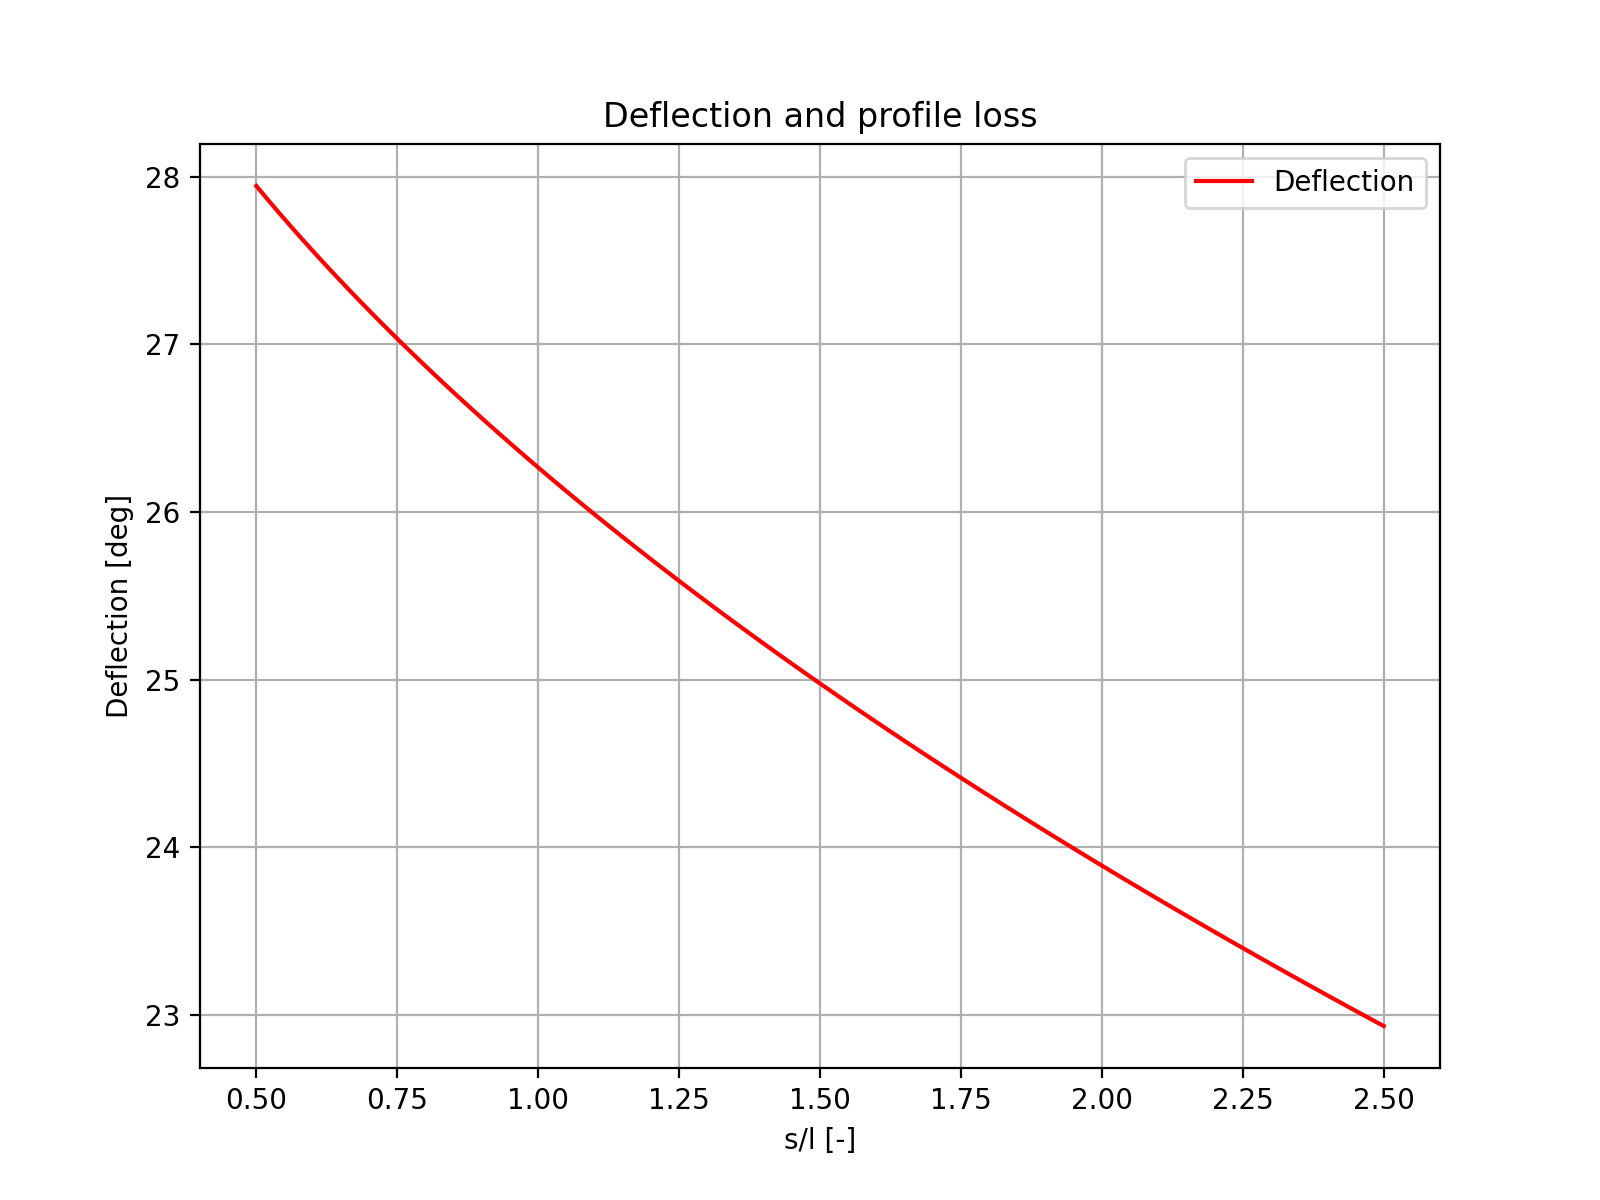
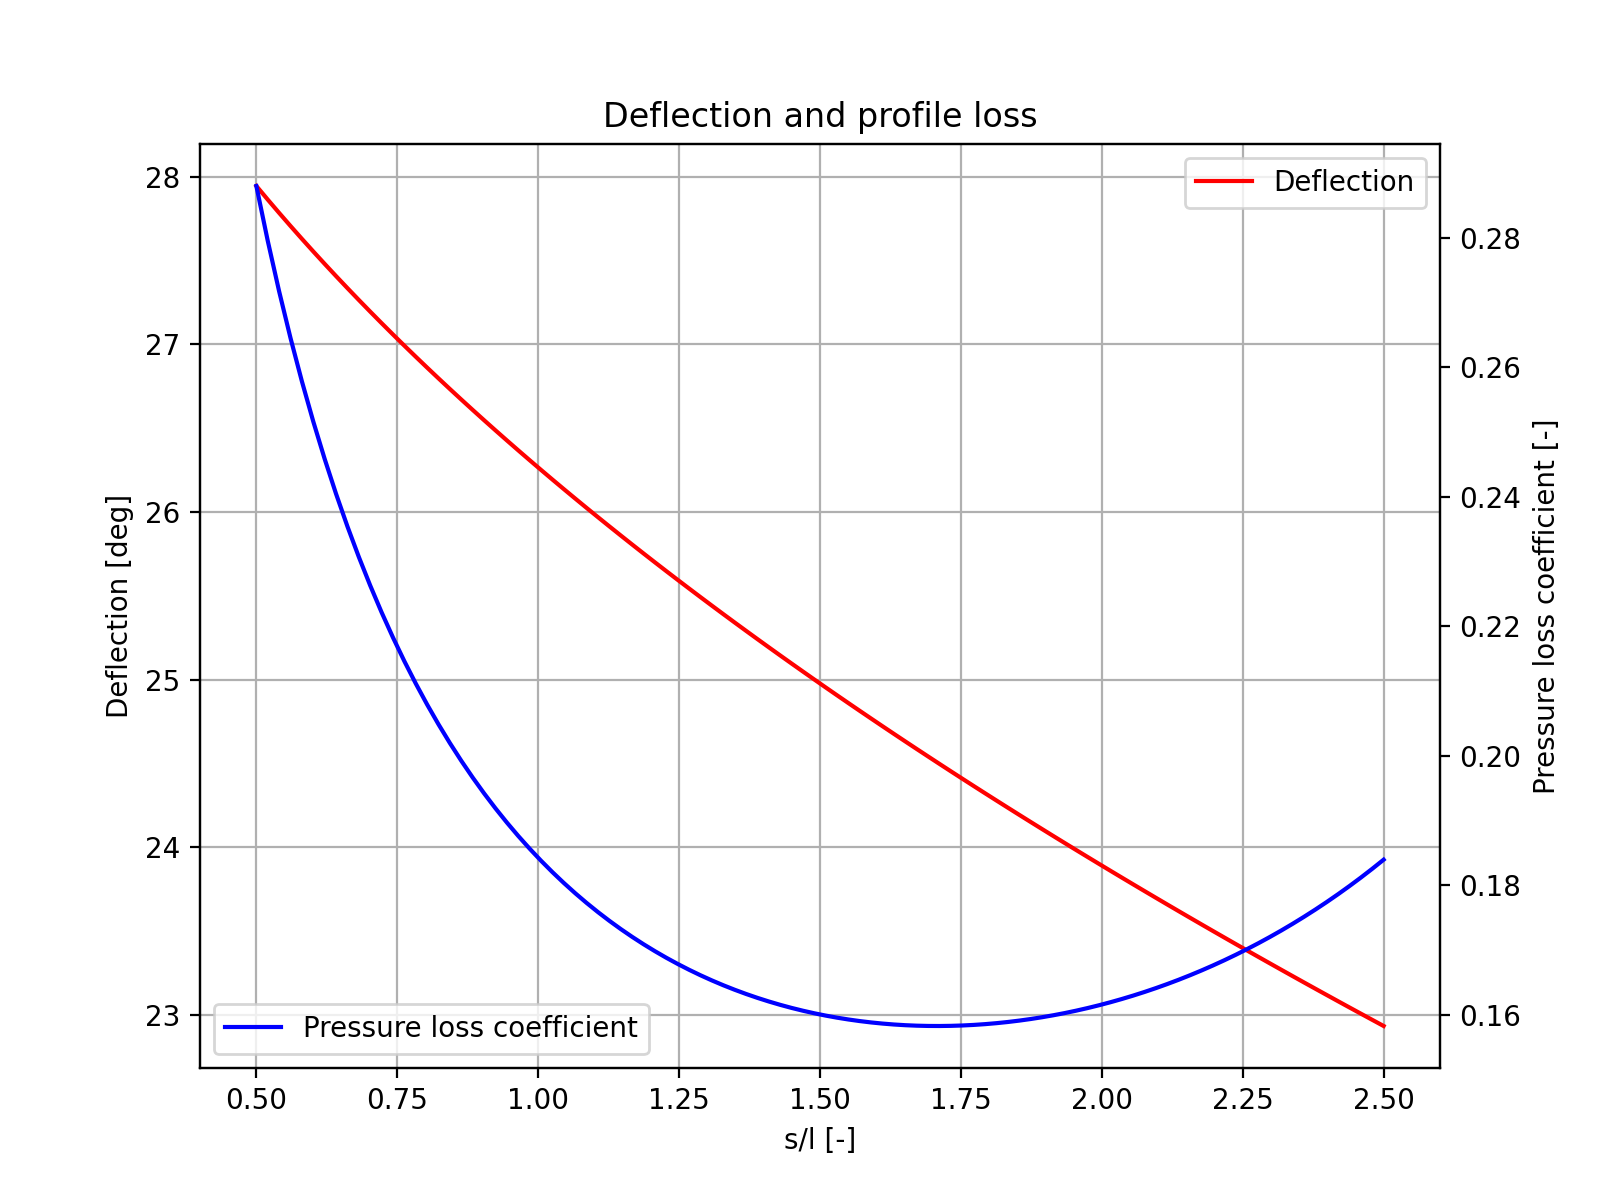
Added pressure loss relation

diff --git a/Assingment2.py b/Assingment2.py
@@ -3,7 +3,7 @@ import numpy as np
 import matplotlib.pyplot as plt
 
 # Known information
-alpha1p = 48  # deg
+alpha1p = 48  # rad
 alpha2p = 16  # deg
 l = 0.16  # m
 i = 0  # deg
@@ -11,6 +11,20 @@ a = 0.4 * l  # m
 
 # Set function domain
 s_l = np.linspace(0.5, 2.5, 100)
+
+
+# Define degree trigonometric funtions
+def sind(x):
+    return np.sin(x * np.pi / 180)
+
+
+def cosd(x):
+    return np.cos(x * np.pi / 180)
+
+
+def tand(x):
+    return np.tan(x * np.pi / 180)
+
 
 # Simple angle calculations
 alpha1 = alpha1p + i  # deg
@@ -25,16 +39,39 @@ alpha2 = alpha2p + deviation
 deflection = alpha1 - alpha2
 
 # Plot deflection
-fig, ax = plt.subplots()
-ax.plot(s_l, deflection, '-r', label="Deflection")
-ax.set_title('Deflection and profile loss')
-ax.set_ylabel('Deflection [deg]')
-ax.set_xlabel('s/l [-]')
-ax.grid()
-ax.legend()
+fig, ax1 = plt.subplots()
+ax1.plot(s_l, deflection, '-r', label="Deflection")
+ax1.set_title('Deflection and profile loss')
+ax1.set_ylabel('Deflection [deg]')
+ax1.set_xlabel('s/l [-]')
+ax1.grid()
+ax1.legend()
+
+# Lieblein equivalent diffusion factor
+eqDiff = (cosd(alpha2) / cosd(alpha1) *
+          (1.12 + 0.61 * s_l * cosd(alpha1) ** 2 * (tand(alpha1) - tand(alpha2))))
+
+# Lieblein empirical momentum thickness to coord lenght
+momThick_l = 0.004 / (1 - 1.17 * np.log(eqDiff))
+
+# Pressure loss coefficient
+pressureLoss = (2 * momThick_l /
+                (s_l * l * cosd(alpha2) ** 2 * np.sqrt(1/4 * (tand(alpha1) - tand(alpha2)) ** 2 + 1)))
+
+# Plot pressure loss coefficient
+ax2 = ax1.twinx()
+ax2.plot(s_l, pressureLoss, '-b', label='Pressure loss coefficient')
+ax2.set_ylabel('Pressure loss coefficient [-]')
+ax2.legend(loc=3)
 
 # Save figure
 figureDPI = 200
 fig.set_size_inches(8, 6)
 fig.savefig('img/DeflectionAndProfileLoss.png', dpi=figureDPI)
+
+fig = plt.figure()
+# plt.plot(s_l, alpha2, '-b')
+# plt.plot(s_l, alpha1*np.ones(len(s_l)), '-r')
+plt.plot(s_l, tand(alpha2), '-g')
+# Show figures
 plt.show(block=True)
